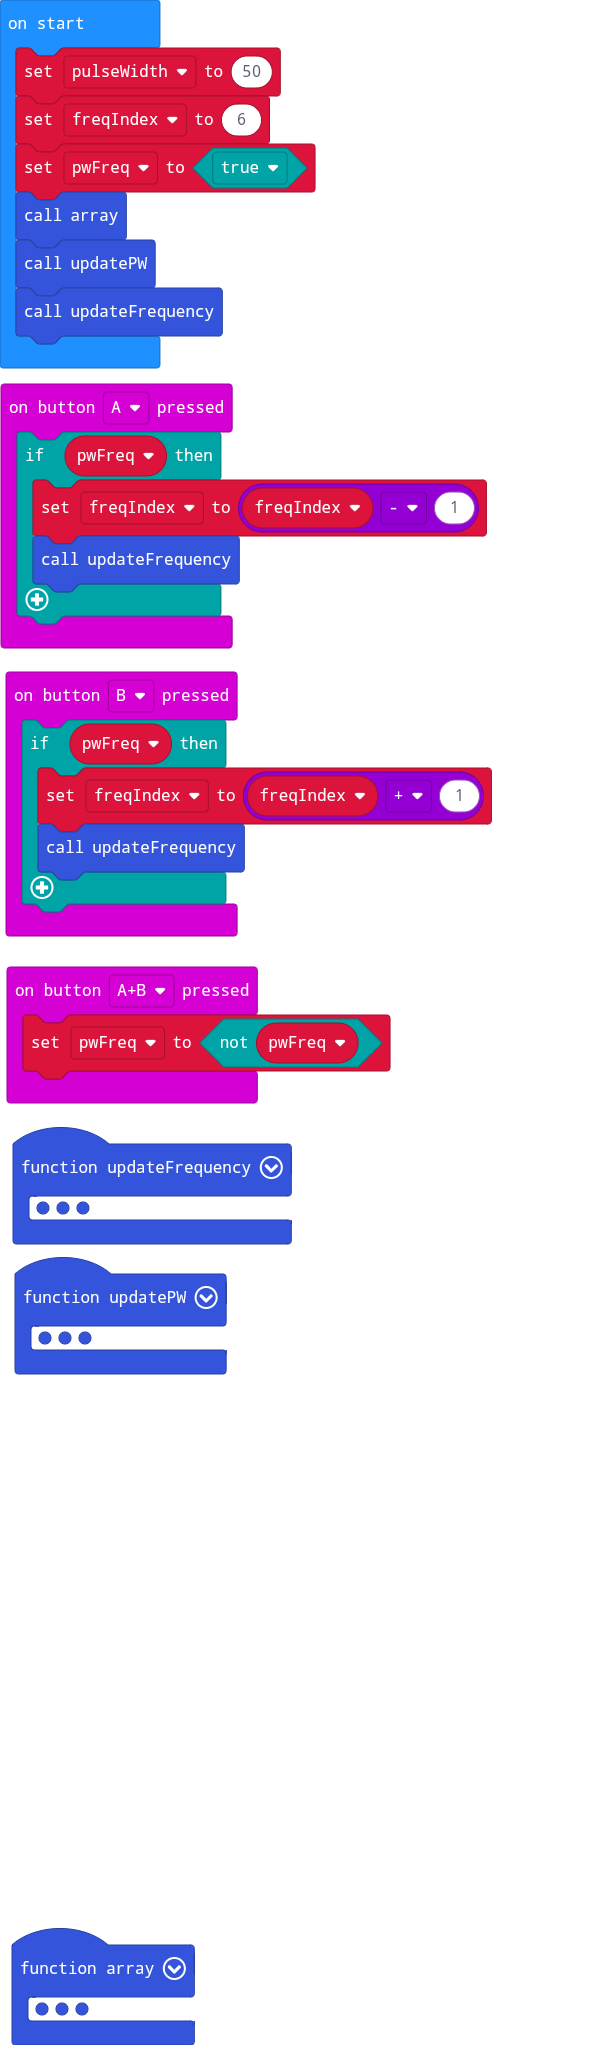
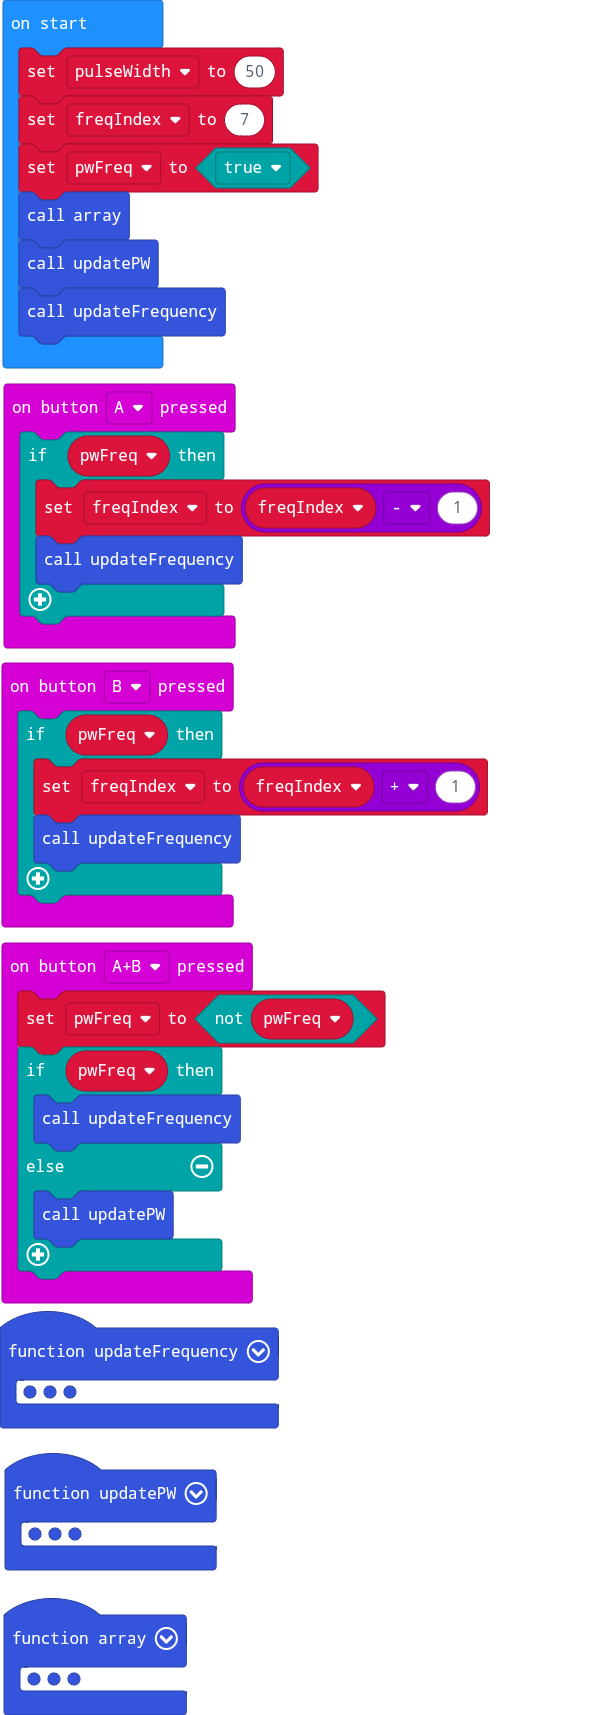
Update main.blocks, main.ts

diff --git a/main.ts b/main.ts
@@ -1,5 +1,5 @@
 function array () {
-    freqList = [1, 5, 10, 50, 100, 500, 1000, 5000, 10000, 50000, 100000, 500000]
+    freqList = [2, 5, 10, 50, 100, 500, 1000, 5000, 10000, 50000, 100000, 500000]
 }
 input.onButtonPressed(Button.A, function () {
     if (pwFreq) {
@@ -9,6 +9,11 @@ input.onButtonPressed(Button.A, function () {
 })
 input.onButtonPressed(Button.AB, function () {
     pwFreq = !(pwFreq)
+    if (pwFreq) {
+        updateFrequency()
+    } else {
+        updatePW()
+    }
 })
 input.onButtonPressed(Button.B, function () {
     if (pwFreq) {
@@ -17,8 +22,8 @@ input.onButtonPressed(Button.B, function () {
     }
 })
 function updateFrequency () {
-    freqIndex = Math.constrain(freqIndex, 0, 11)
-    freq = freqList[freqIndex]
+    freqIndex = Math.constrain(freqIndex, 1, freqList.length)
+    freq = freqList[freqIndex - 1]
     pins.analogSetPeriod(AnalogPin.P0, 1000000 / freq)
     if (freq > 999) {
         freq = freq / 1000
@@ -38,7 +43,7 @@ let pwFreq = false
 let freqIndex = 0
 let pulseWidth = 0
 pulseWidth = 50
-freqIndex = 6
+freqIndex = 7
 pwFreq = true
 array()
 updatePW()
